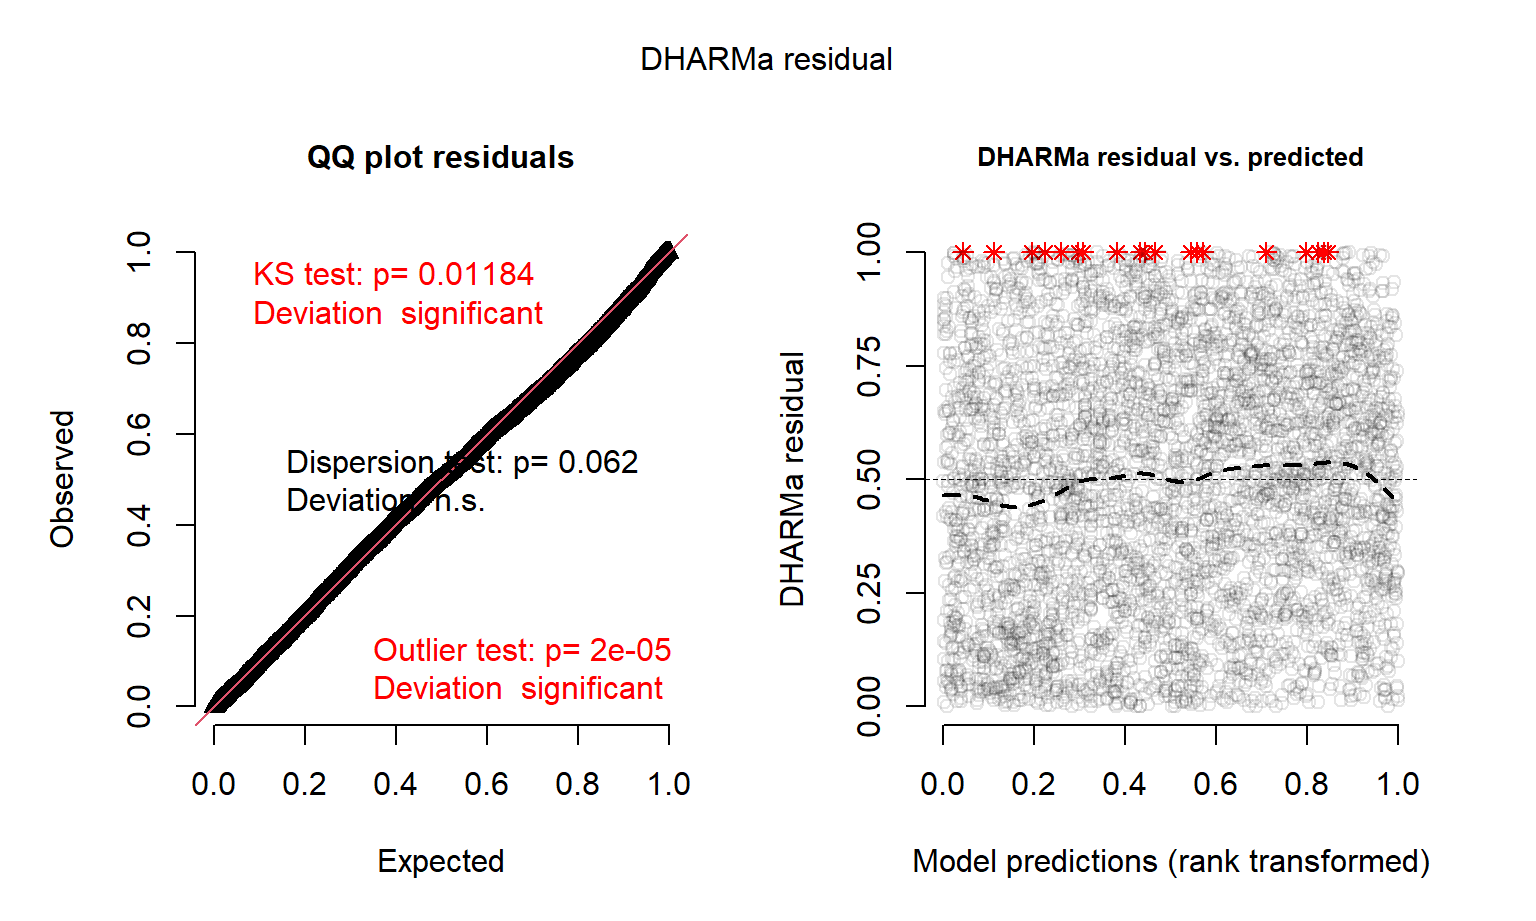
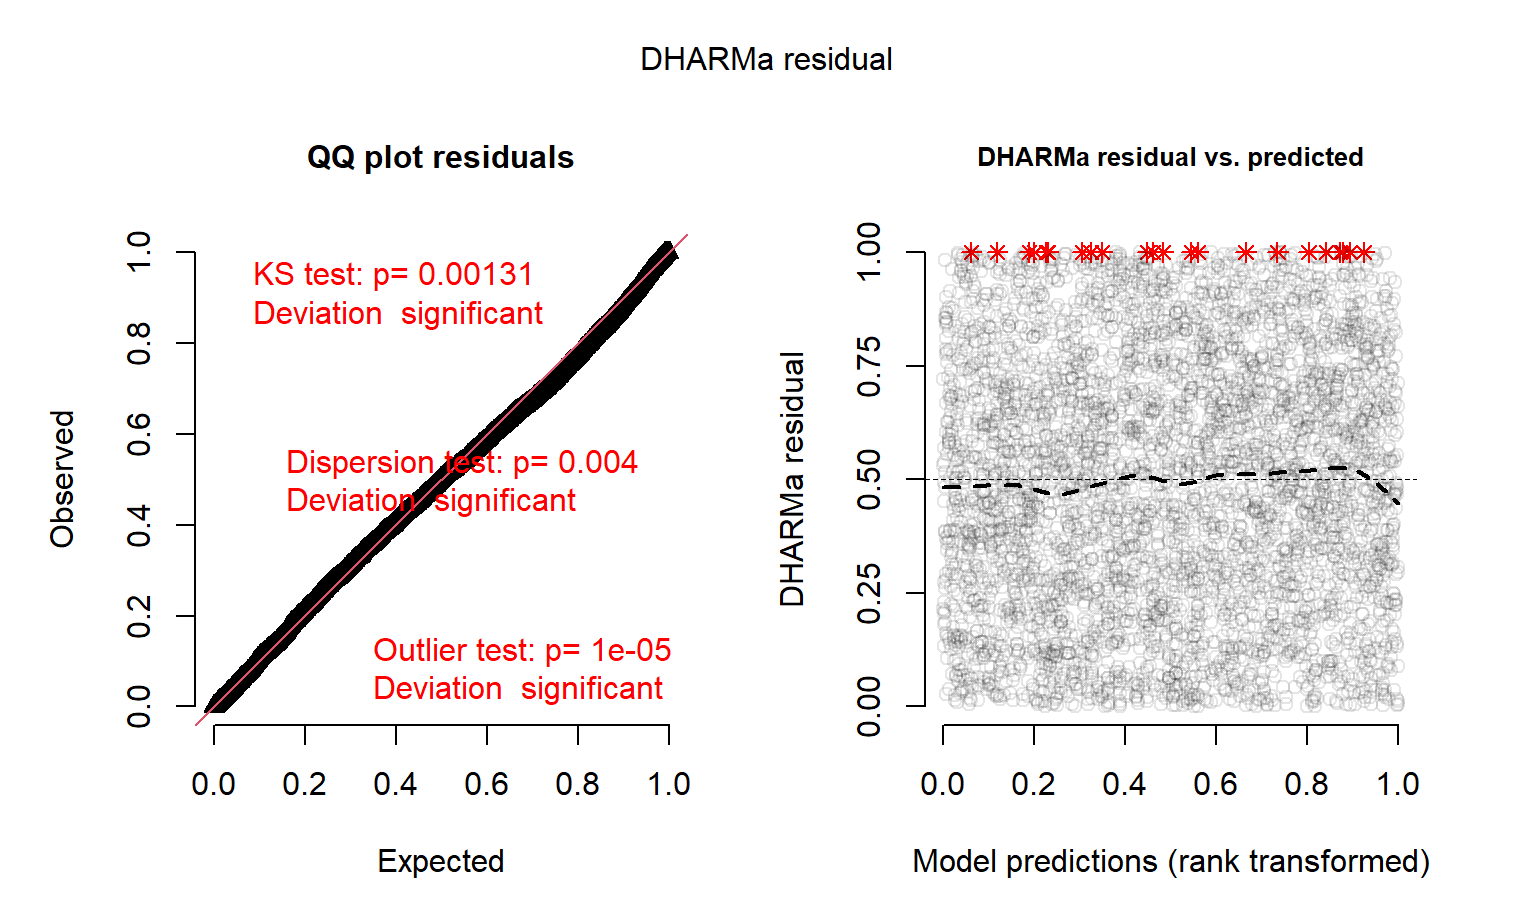
feat(tutorial): update zero-inflated models tutorial with new content
* Enhance explanations of zero-inflated models and their applications.
* Clarify the distinction between structural and sampling zeros.
* Introduce count-model building blocks, including Poisson and negative binomial regression.
* Add references for further reading on zero-inflated models and generalized linear models.
* Update figures and improve overall clarity and accessibility of the tutorial.

diff --git a/_base-components.scss b/_base-components.scss
@@ -619,6 +619,15 @@ samp {
 // Small chrome elements should feel connected to the larger surface system
 // without drawing focus away from the content itself.
 
+// Quarto gives the sticky margin sidebar z-index: 1 while the article sits at
+// z-index: 0. Citation previews are appended inside the article, so even
+// Tippy's high z-index cannot escape that parent stacking context. Raise the
+// article only while a preview is open so it can pass over the TOC without
+// changing the normal page layering.
+#quarto-content.page-columns main.content:has([data-tippy-root]) {
+  z-index: 2;
+}
+
 #TOC,
 .sidebar nav[role='doc-toc'] {
   background-color: rgba($surface-secondary, 0.92);
